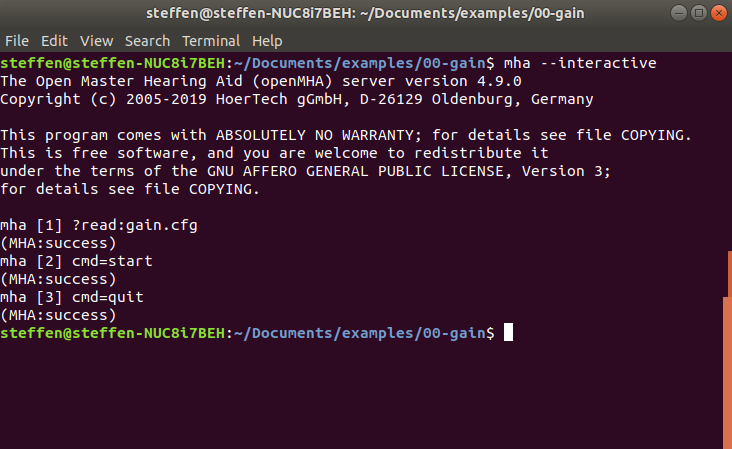
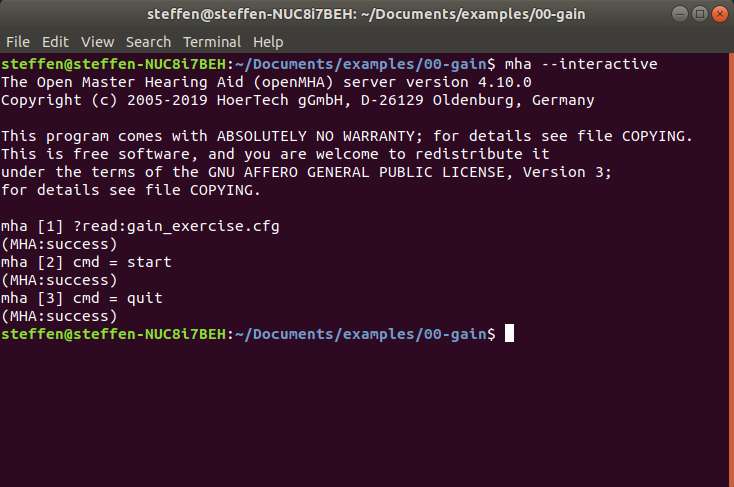
T671 Provided two new cfg files which are connected to the starting guide

diff --git a/mha/doc/starting_guide/openMHA_starting_guide.tex b/mha/doc/starting_guide/openMHA_starting_guide.tex
@@ -70,12 +70,52 @@
 \fancyfoot[CO]{\fancyplain{}{}}
 \fancyfoot[RO]{\fancyplain{}{}}
 
+
+
+
+
+
+
+
+
+
+
+
 % Indices & bibliography
 \usepackage{natbib}
 \usepackage{tocloft}
 \setcounter{tocdepth}{2}
 \setcounter{secnumdepth}{4}
 \addtolength{\cftsubsecnumwidth}{5pt}
+\usepackage{fancyvrb}
+
+
+\RecustomVerbatimCommand{\VerbatimInput}{VerbatimInput}%
+{fontsize=\footnotesize,
+ %
+ frame=lines,  % top and bottom rule only
+ framesep=2em, % separation between frame and text
+ rulecolor=\color{Gray},
+ %
+ label=\fbox{\color{Black}data.txt},
+ labelposition=topline,
+ %
+ commandchars=\|\(\), % escape character and argument delimiters for
+                      % commands within the verbatim
+ commentchar=*        % comment character
+}
+
+
+
+
+
+
+
+
+
+
+
+
 \makeindex
 
 % Custom commands
@@ -93,6 +133,28 @@
 \usepackage{color}
 \usepackage{subcaption}
 \usepackage{fancyvrb} %Für Rahmen um Code Boxen
+\usepackage{listings}
+
+
+\lstdefinestyle{customc}{
+language = tcl,
+commentstyle=\color{orange},
+  %columns = flexible
+  basicstyle = \ttfamily,
+  showstringspaces = false,
+  numbers=left,
+  numberstyle=\tiny,
+  frame = single
+}
+
+\lstset{escapechar=@,style=customc}
+
+
+
+
+
+
+
 
 \begin{document}
 \MHAtitle{Getting Started}
@@ -317,41 +379,9 @@ in a line starting with \# which is used for comments.
 The actual file on disk contains more verbose comments.
 \\
 
-\textbf{gain.cfg:}
+\textbf{gain\_exercise.cfg:} \\
 
-\begin{Verbatim}[frame=single,numbers=left,commandchars=\\\{\}]
-#The number of channels we want to process
-\textcolor{orange}{\textbf{nchannels_in = 2 }}
-#Number of frames to be processed in each block.
-\textcolor{orange}{\textbf{fragsize = 64}}
-#Sampling rate. Has to be the same as the input file
-\textcolor{orange}{\textbf{srate = 44100 }}
-#We want to use the plugin "mhachain"
-\textcolor{orange}{\textbf{mhalib = mhachain }}
-#Now we need to define input-output backend "iolib"
-#Here we decide if the audio should come from a static audio
-#file or from e.g. a live input source such as a microphone
-#input
-#In this case we will use simple static audio files
-\textcolor{orange}{\textbf{iolib = MHAIOFile}}
-#The plugin "mhachain" can load multiple plugins and
-#will connect them in series which is denoted by "[...]"
-#Here we will only use one plugin "gain"
-\textcolor{orange}{\textbf{mha.algos=[ gain ]}}
-#Set max and min gain factors in dB
-\textcolor{orange}{\textbf{mha.gain.min=-20}}
-\textcolor{orange}{\textbf{mha.gain.max=20}}
-#nchannels_in was set to 2 (see line 2), so we have to define 
-#two gain factors (left and right)
-\textcolor{orange}{\textbf{mha.gain.gains=[ -10 10 ]}}
-#Define the name of the input and output file
-#The input file needs to be in the same directory 
-#as the .cfg file itself
-\textcolor{orange}{\textbf{io.in = 1speaker_diffNoise_2ch.wav}}
-\textcolor{orange}{\textbf{io.out = 1speaker_diffNoise_2ch_OUT.wav}}
-\end{Verbatim} 
-
-
+\lstinputlisting{../../../examples/00-gain/gain_exercise.cfg}
 
 \newpage 
 In this guide we will use the example files from the openMHA installer.
@@ -401,7 +431,7 @@ The current working directory of the openMHA should be the copy of the 00-gain e
 In order to read in the configuration file \textbf{gain.cfg} (which lies directly in \textit{00-gain}), type: \\
 
 %$\rightarrow${\ttfamily ?read:\textbackslash Users\textbackslash YourUserName\textbackslash Documents\textbackslash examples\textbackslash 00-gain\textbackslash gain.cfg}
-$\rightarrow${\ttfamily ?read:gain.cfg}
+$\rightarrow${\ttfamily ?read:gain\_exercise.cfg}
 
 
 %with the corresponding file directory of gain.cfg. 
@@ -438,28 +468,11 @@ the operating system for real-time performance, or use a
 different sound card or operating system.
 \\
 
-\textbf{gain\_live.cfg:}
+\textbf{gain\_live\_exercise.cfg:} \\
 
-\begin{Verbatim}[frame=single,numbers=left,commandchars=\\\{\}]
-#The number of channels we want to process
-\textcolor{orange}{\textbf{nchannels_in = 2}}
-#Number of frames to be processed in each block.
-\textcolor{orange}{\textbf{fragsize = 64}}
-#Sampling rate. Has to be the same as the input signal of JACK
-\textcolor{orange}{\textbf{srate = 44100}}
-#Again, we want to use the plugin "mhachain"
-\textcolor{orange}{\textbf{mhalib = mhachain}}
-Here we will only use one plugin "gain"
-\textcolor{orange}{\textbf{mha.algos=[ gain ]}}
-#Set max and min gain factors in dB
-\textcolor{orange}{\textbf{mha.gain.min=-20}}
-\textcolor{orange}{\textbf{mha.gain.max=20}}
-#two gain factors (left and right)
-\textcolor{orange}{\textbf{mha.gain.gains=[ -10 10 ]}}
-#In this example, we load the IO library that connects
-#the MHA to the Jack audio server.
-\textcolor{orange}{\textbf{iolib = MHAIOJackdb}}
-\end{Verbatim} 
+\lstinputlisting{../../../examples/00-gain/gain_live_exercise.cfg}
+
+
 
 In order to set up and connect a JACK server you can follow the steps below:
 
@@ -515,7 +528,7 @@ To do this, start openMHA in the same directory as before:
     \item \textbf{Navigate inside the examples folder into the subdirectory of the first example $\rightarrow$ \textbf{00-gain}} \\ 
     \item Type {{\ttfamily mha \texttt{-{}-}interactive}} and press \textbf{Enter}
  
-    \item $\rightarrow$ {\ttfamily ?read:gain\_live.cfg}
+    \item $\rightarrow$ {\ttfamily ?read:gain\_live\_exercise.cfg}
     \item $\rightarrow$ {\ttfamily cmd=start}
 
 \mha{} is now applying a gain to your own voice input. In order to close openMHA type:
